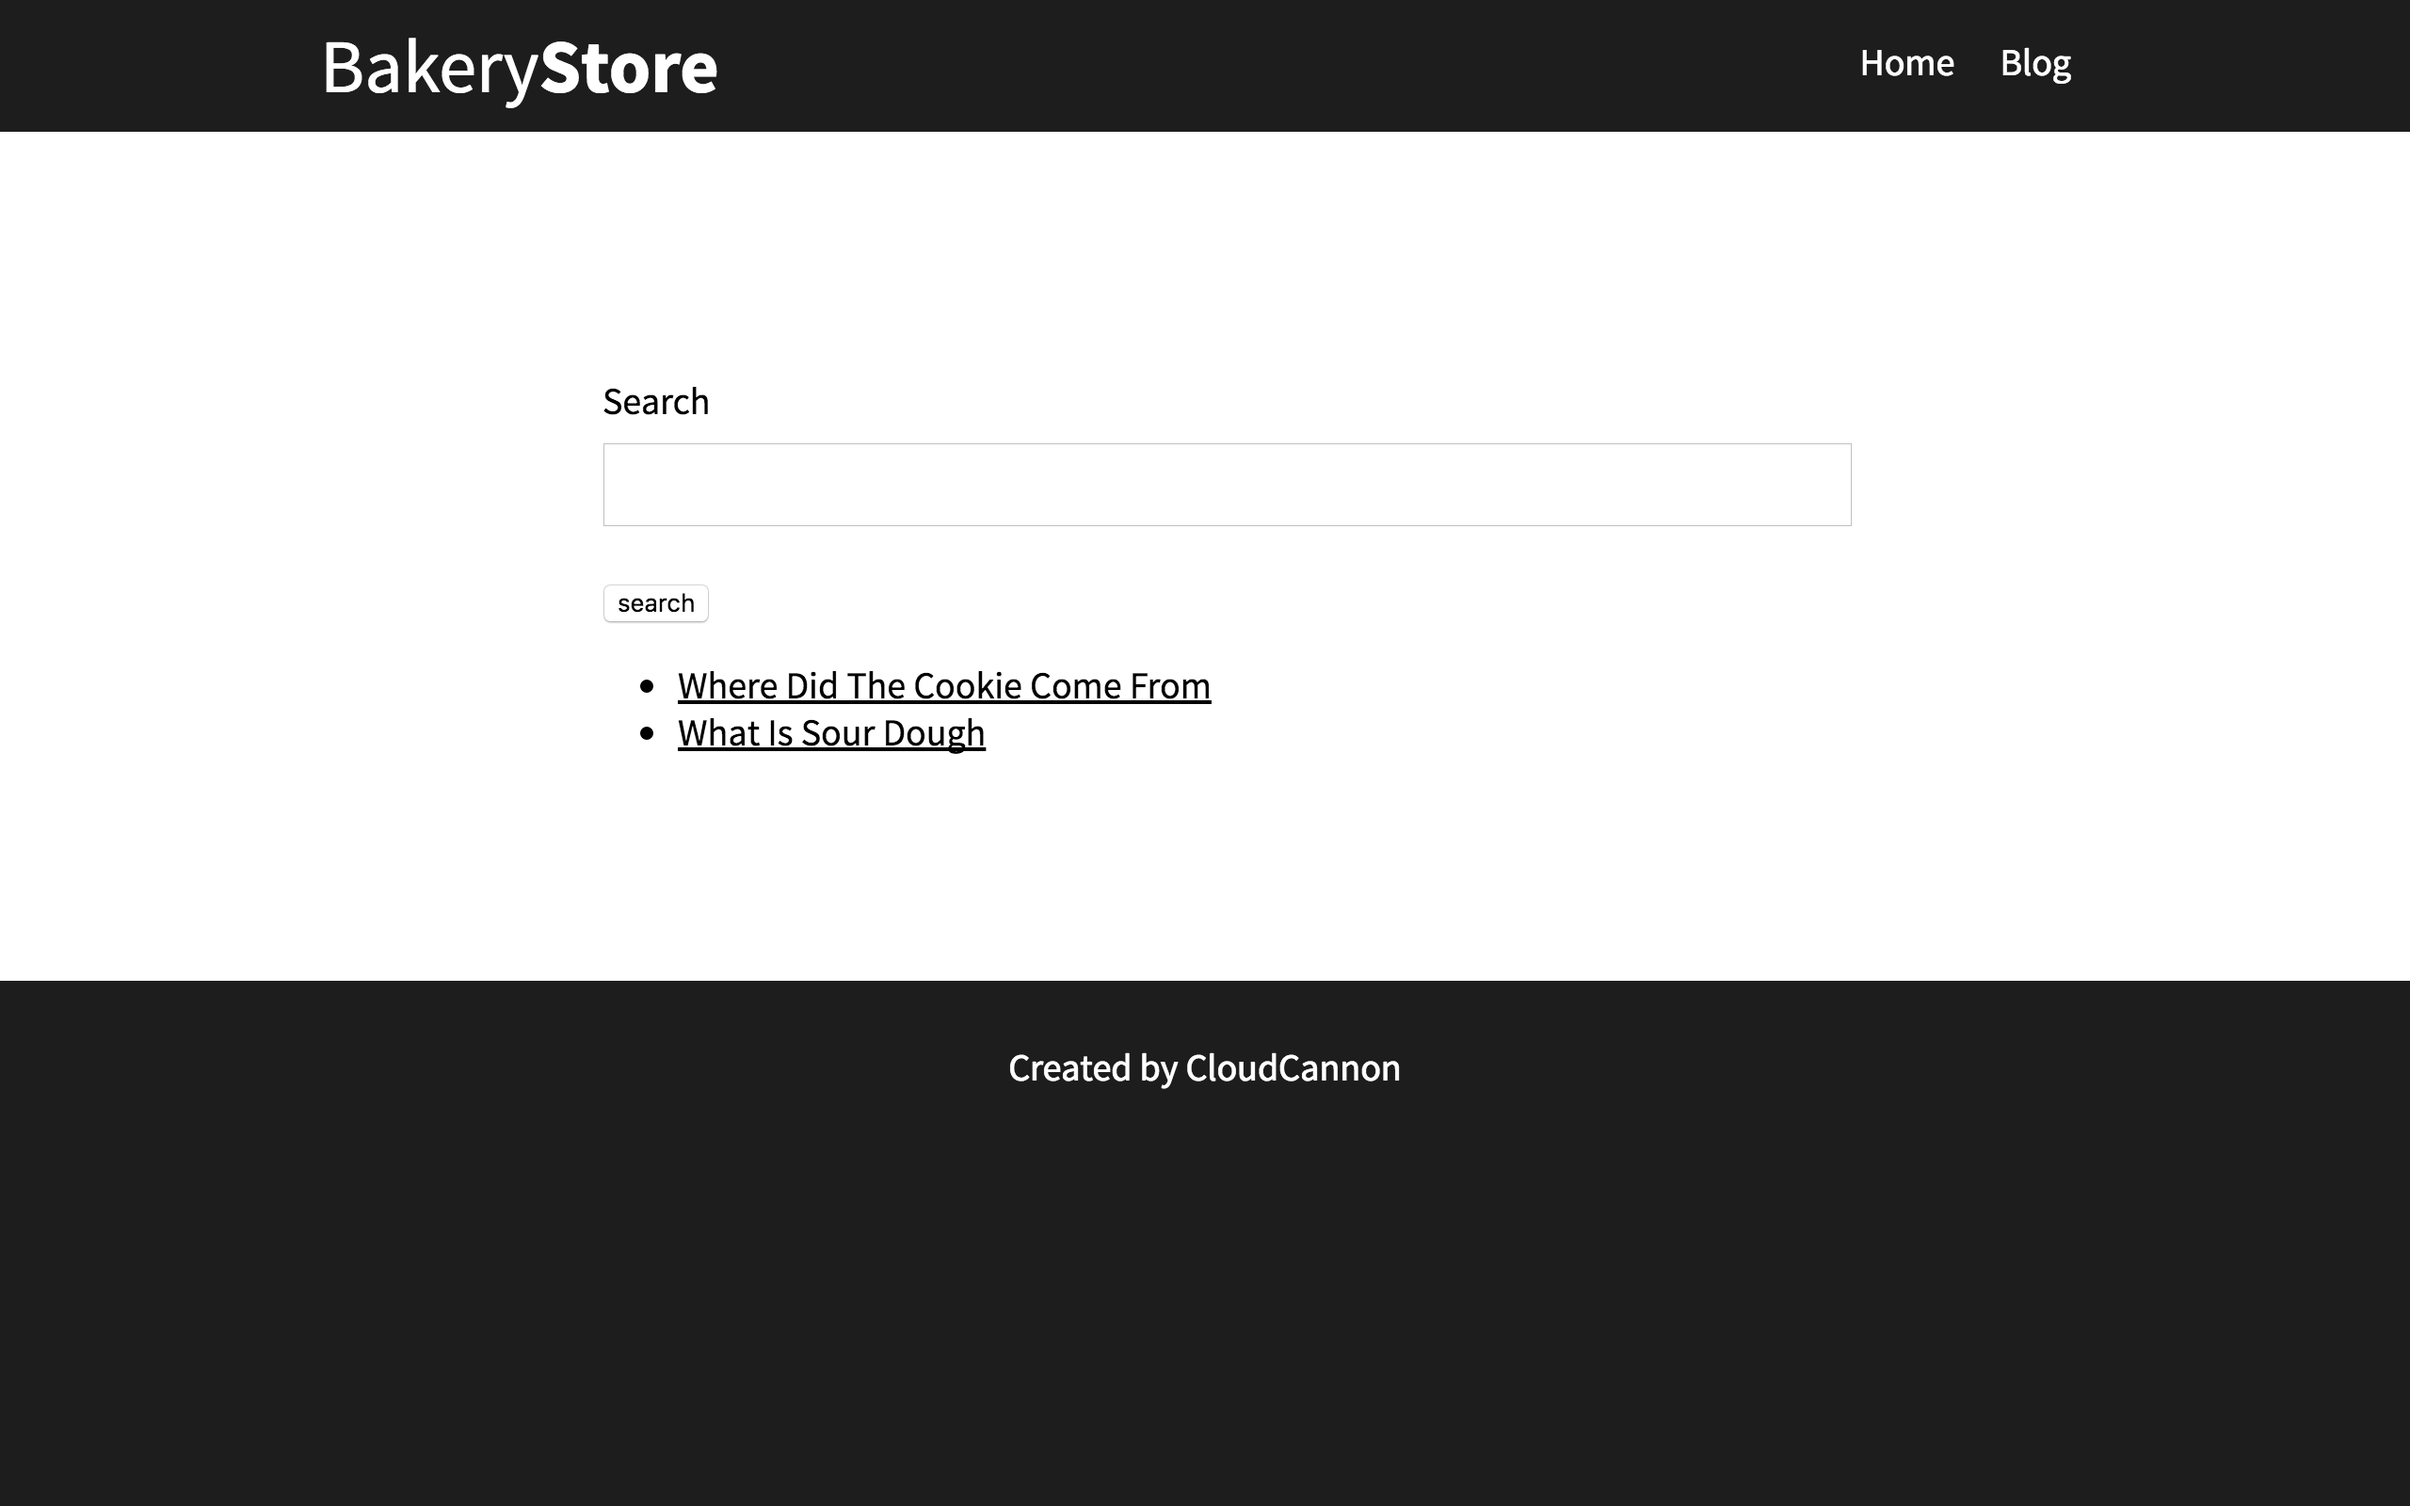
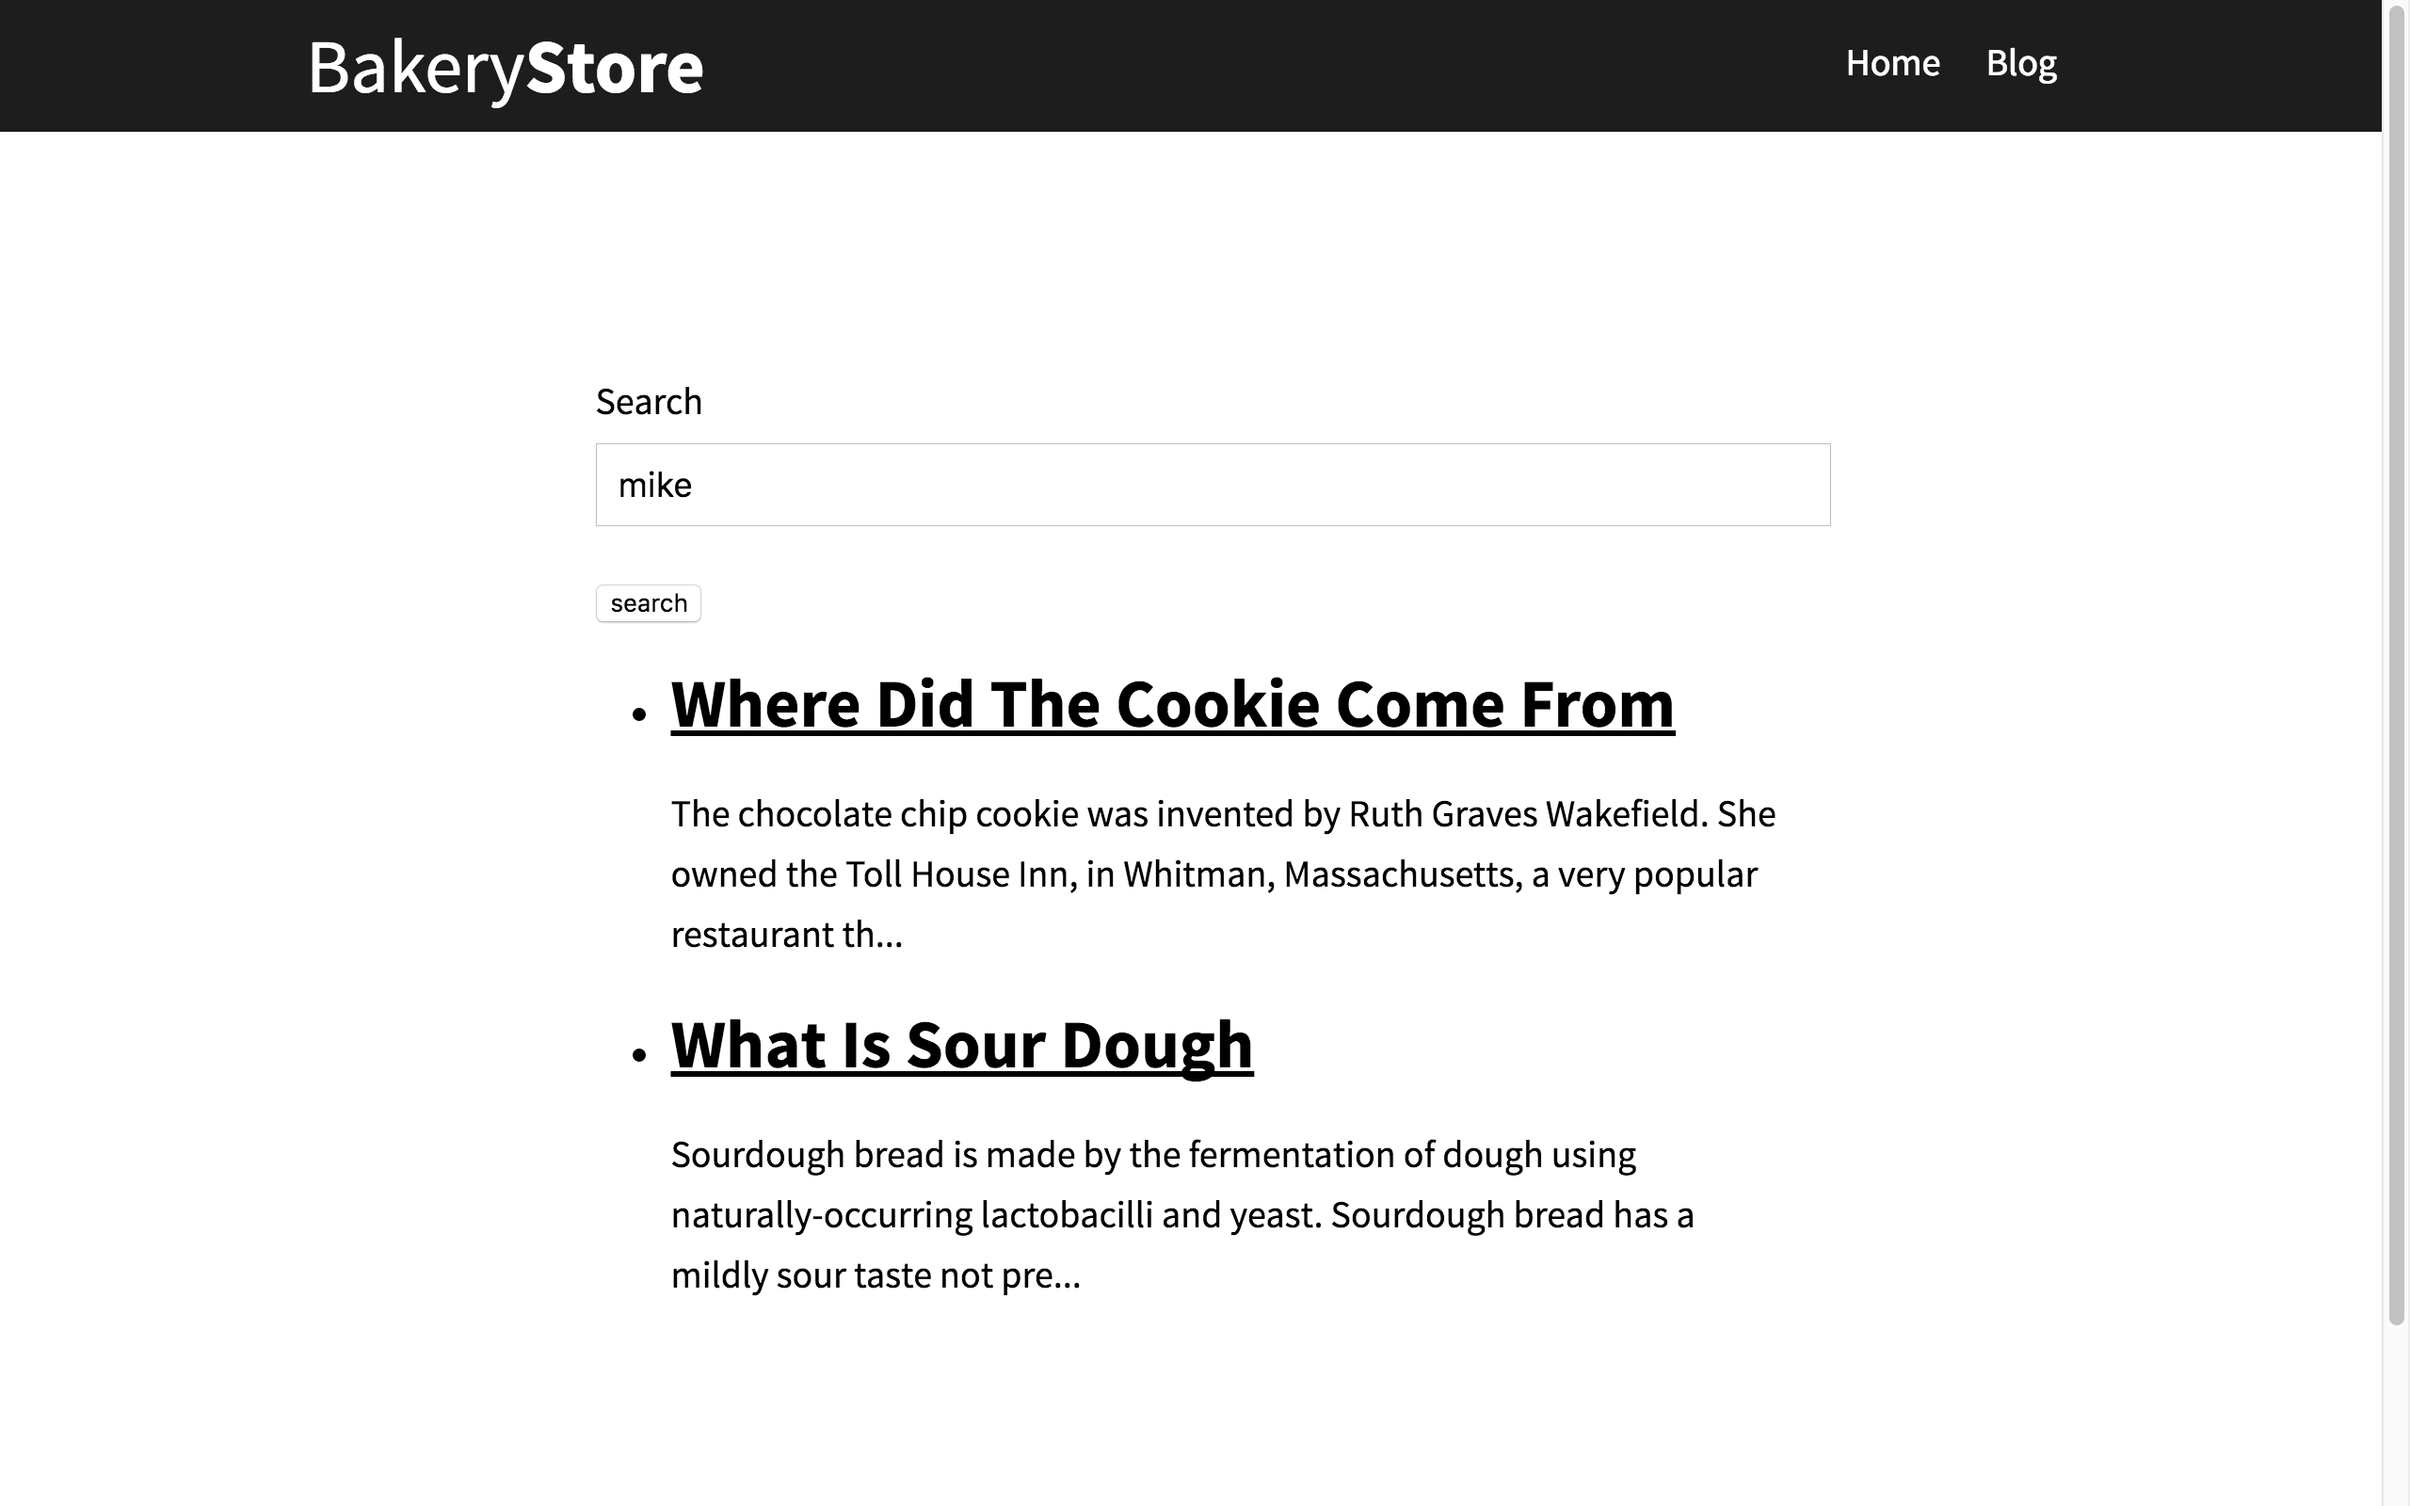
fixed up lunr post

diff --git a/_posts/2016-05-18-jekyll-search-using-lunr-js.md b/_posts/2016-05-18-jekyll-search-using-lunr-js.md
@@ -18,55 +18,46 @@ We're adding search to our demo Bakery Store site so users can easily find relev
 To build the search we'll use [lunr.js](http://lunrjs.com/), a client side full-text search engine. The search will work in the following steps:
 
 1. Send the search term as a [GET parameter](http://www.w3schools.com/tags/ref_httpmethods.asp) to `search.html`.
-2. `search.html` reads the GET parameter and searches through a JSON file containing all the searchable content.
+2. `search.html` reads the GET parameter and searches through JSON containing the searchable content.
 3. `search.html` displays a list of search results.
 
-First we'll create a JSON file `/search-data.json` which contains the data we want to search on. We'll create a JSON object where each post has a key of the post URL and a value of the title, author, category and URL.
+First we'll create `/js/search.js` to hold our search JavaScript and download [lunr.js](http://lunrjs.com/) to `/js/lunr.min.js`.
 
-{% highlight liquid %}
-{% raw %}
----
-layout: null
----
-{
-  {% for post in site.posts %}
-
-    "{{ post.url | slugify }}": {
-      "title": "{{ post.title | xml_escape }}",
-      "author": "{{ post.author | xml_escape }}",
-      "category": "{{ post.category | xml_escape }}",
-      "url": "{{ post.url | xml_escape }}"
-    }
-    {% unless forloop.last %},{% endunless %}
-  {% endfor %}
-}
-{% endraw %}
-{% endhighlight %}
-
-We'll create `/js/search.js` to hold our search Javascript and download [lunr.js](http://lunrjs.com/) to `/js/lunr.min.js`.
-
-Now we need to create `/search.html` which has a search box, a placeholder for displaying results and includes our javascript libraries.
+Now we need to create `/search.html` which has a search box, a placeholder for displaying results, a JSON output of all the content we want to search on and includes our JavaScript libraries.
 
 {% highlight html %}
 {% raw %}
 ---
-layout: default
+layout: search
 ---
-
-<form action="/search.html" method="get" id="site_search">
-  <label for="search_box">Search</label>
-  <input type="text" id="search_box" name="search_term">
+<form action="/search.html" method="get">
+  <label for="search-box">Search</label>
+  <input type="text" id="search-box" name="query">
   <input type="submit" value="search">
 </form>
 
-<ul id="search_results"></ul>
+<ul id="search-results"></ul>
 
+<script>
+  window.store = {
+    {% for post in site.posts %}
+      "{{ post.url | slugify }}": {
+        "title": "{{ post.title | xml_escape }}",
+        "author": "{{ post.author | xml_escape }}",
+        "category": "{{ post.category | xml_escape }}",
+        "content": {{ post.content | strip_html | strip_newlines | jsonify }},
+        "url": "{{ post.url | xml_escape }}"
+      }
+      {% unless forloop.last %},{% endunless %}
+    {% endfor %}
+  };
+</script>
 <script src="/js/lunr.min.js"></script>
 <script src="/js/search.js"></script>
 {% endraw %}
 {% endhighlight %}
 
-Next we need to write the Javascript for `/js/search.js` to perform three tasks:
+Next we need to write the JavaScript for `/js/search.js` to perform three tasks:
 
 * Get the search term
 * Perform the search
@@ -76,59 +67,39 @@ We'll go over the sections of code then at the end, we'll see the whole file.
 
 ***Get the search term***
 
-Javascript doesn't have an easy way to read GET parameters so we'll add a `getParameterByName` function to do this. Don't worry if you don't understand how it works. Now we can use `getParameterByName` to get our search term.
+JavaScript doesn't have an easy way to read GET parameters so we'll add a `getParameterByName` function to do this. Don't worry if you don't understand how it works. Now we can use `getParameterByName` to get our search term.
 
 {% highlight javascript %}
 {% raw %}
 ...
-function getParameterByName(name) {
-  url = window.location.href;
-  name = name.replace(/[\[\]]/g, '\\$&');
-  var regex = new RegExp('[?&]' + name + '(=([^&#]*)|&|#|$)'),
-    results = regex.exec(url);
-  if (!results) return null;
-  if (!results[2]) return '';
-  return decodeURIComponent(results[2].replace(/\+/g, ' '));
+function getQueryVariable(variable) {
+  var query = window.location.search.substring(1);
+  var vars = query.split("&");
+
+  for (var i = 0; i < vars.length; i++) {
+    var pair = vars[i].split("=");
+
+    if (pair[0] === variable) {
+      return decodeURIComponent(pair[1].replace(/\+/g, "%20"));
+    }
+  }
 }
 
-var searchTerm = getParameterByName('search_term');
+var searchTerm = getQueryVariable('query');
 ...
 {% endraw %}
 {% endhighlight %}
 
 ***Perform the search***
 
-We need to add another function which doesn't matter if you don't understand the inner workings. This one is called `getJSON` and we'll use it to retrieve our `/search-data.json` file.
-
-{% highlight javascript %}
-{% raw %}
-...
-function getJSON(url, callback) {
-  var xhr = new XMLHttpRequest();
-  xhr.open('get', url, true);
-  xhr.responseType = 'json';
-  xhr.onload = function() {
-
-    var status = xhr.status;
-
-    if (status == 200) {
-      callback(null, xhr.response);
-    } else {
-      callback(status);
-    }
-  };
-  xhr.send();
-}
-...
-{% endraw %}
-{% endhighlight %}
-
-If there is a search term we need to set up and configure lunr.js. This involves telling lunr about the fields we're interested and adding the search data from `/search-data.json`. Once this is set up we can perform the search.
+If there's a search term we need to set up and configure lunr.js. This involves telling lunr about the fields we're interested and adding the search data from the JSON. Once this is set up we can perform the search.
 
 {% highlight javascript %}
 {% raw %}
 ...
 if (searchTerm) {
+  document.getElementById('search-box').setAttribute("value", searchTerm);
+
   // Initalize lunr with the fields it will be searching on. I've given title
   // a boost of 10 to indicate matches on this field are more important.
   var idx = lunr(function () {
@@ -136,22 +107,21 @@ if (searchTerm) {
     this.field('title', { boost: 10 });
     this.field('author');
     this.field('category');
+    this.field('content');
   });
 
-  // Download the data from the JSON file we generated
-  getJSON('/search-data.json', function(status, store) {
-    for (var key in store) { // Add the data to lunr
-      idx.add({
-        'id': key,
-        'title': store[key].title,
-        'author': store[key].author,
-        'category': store[key].category
-      });
-    }
+  for (var key in window.store) { // Add the data to lunr
+    idx.add({
+      'id': key,
+      'title': window.store[key].title,
+      'author': window.store[key].author,
+      'category': window.store[key].category,
+      'content': window.store[key].content
+    });
 
     var results = idx.search(searchTerm); // Get lunr to perform a search
-    displaySearchResults(results, store); // We'll write this in the next section
-  });
+    displaySearchResults(results, window.store); // We'll write this in the next section
+  }
 }
 ...
 {% endraw %}
@@ -165,14 +135,15 @@ Now we have the results we can display them in our list.
 {% raw %}
 ...
 function displaySearchResults(results, store) {
-  var searchResults = document.getElementById('search_results');
+  var searchResults = document.getElementById('search-results');
 
   if (results.length) { // Are there any results?
     var appendString = '';
 
     for (var i = 0; i < results.length; i++) {  // Iterate over the results
       var item = store[results[i].ref];
-      appendString += '<li><a href="' + item.url + '">' + item.title + '</a></li>';
+      appendString += '<li><a href="' + item.url + '"><h3>' + item.title + '</h3></a>' +
+      '<p>' + item.content.substring(0,150) + '...</p></li>';
     }
 
     searchResults.innerHTML = appendString;
@@ -190,14 +161,15 @@ When we put it all together we have working search.
 {% raw %}
 (function() {
   function displaySearchResults(results, store) {
-    var searchResults = document.getElementById('search_results');
+    var searchResults = document.getElementById('search-results');
 
     if (results.length) { // Are there any results?
       var appendString = '';
 
-      for (var i = 0; i < results.length; i++) {   // Iterate over the results
+      for (var i = 0; i < results.length; i++) {  // Iterate over the results
         var item = store[results[i].ref];
-        appendString += '<li><a href="' + item.url + '">' + item.title + '</a></li>';
+        appendString += '<li><a href="' + item.url + '"><h3>' + item.title + '</h3></a>' +
+        '<p>' + item.content.substring(0,150) + '...</p></li>';
       }
 
       searchResults.innerHTML = appendString;
@@ -206,36 +178,24 @@ When we put it all together we have working search.
     }
   }
 
-  function getJSON(url, callback) {
-    var xhr = new XMLHttpRequest();
-    xhr.open('get', url, true);
-    xhr.responseType = 'json';
-    xhr.onload = function() {
+  function getQueryVariable(variable) {
+    var query = window.location.search.substring(1);
+    var vars = query.split("&");
 
-      var status = xhr.status;
+    for (var i = 0; i < vars.length; i++) {
+      var pair = vars[i].split("=");
 
-      if (status == 200) {
-        callback(null, xhr.response);
-      } else {
-        callback(status);
+      if (pair[0] === variable) {
+        return decodeURIComponent(pair[1].replace(/\+/g, "%20"));
       }
-    };
-    xhr.send();
+    }
   }
 
-  function getParameterByName(name) {
-    url = window.location.href;
-    name = name.replace(/[\[\]]/g, '\\$&');
-    var regex = new RegExp('[?&]' + name + '(=([^&#]*)|&|#|$)'),
-      results = regex.exec(url);
-    if (!results) return null;
-    if (!results[2]) return '';
-    return decodeURIComponent(results[2].replace(/\+/g, ' '));
-  }
-
-  var searchTerm = getParameterByName('search_term');
+  var searchTerm = getQueryVariable('query');
 
   if (searchTerm) {
+    document.getElementById('search-box').setAttribute("value", searchTerm);
+
     // Initalize lunr with the fields it will be searching on. I've given title
     // a boost of 10 to indicate matches on this field are more important.
     var idx = lunr(function () {
@@ -243,22 +203,21 @@ When we put it all together we have working search.
       this.field('title', { boost: 10 });
       this.field('author');
       this.field('category');
+      this.field('content');
     });
 
-    // Download the data from the JSON file we generated
-    getJSON('/search-data.json', function(status, store) {
-      for (var key in store) { // Add the data to lunr
-        idx.add({
-          'id': key,
-          'title': store[key].title,
-          'author': store[key].author,
-          'category': store[key].category
-        });
-      }
+    for (var key in window.store) { // Add the data to lunr
+      idx.add({
+        'id': key,
+        'title': window.store[key].title,
+        'author': window.store[key].author,
+        'category': window.store[key].category,
+        'content': window.store[key].content
+      });
 
       var results = idx.search(searchTerm); // Get lunr to perform a search
-      displaySearchResults(results, store); // We'll write this in the next section
-    });
+      displaySearchResults(results, window.store); // We'll write this in the next section
+    }
   }
 })();
 {% endraw %}
@@ -271,9 +230,9 @@ Now we can add a search box anywhere on our site by adding a form which submits 
 {% highlight html %}
 {% raw %}
 ...
-<form action="/search.html" method="get" id="site_search">
+<form action="/search.html" method="get">
   <label for="search_box">Search</label>
-  <input type="text" id="search_box" name="search_term">
+  <input type="text" id="search_box" name="query">
   <input type="submit" value="search">
 </form>
 ...
